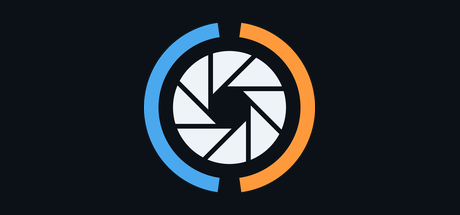
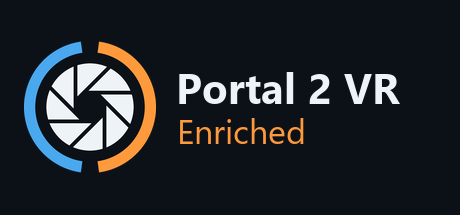
Name the project Portal 2 VR Enriched
A nod to the Aperture Science Enrichment Center. Rename everything a player
sees: launcher, error dialogs, SteamVR entries, documents and the release
package. Internal namespaces, log names and deployed file names stay, so
existing installations keep working.

Changed region(s): [[0.0304, 0.1116, 0.8826, 0.893]]

diff --git a/tools/launcher.py b/tools/launcher.py
@@ -1,4 +1,4 @@
-"""User-facing Portal2VR launcher; deployment uses the shared backup installer."""
+"""User-facing Portal 2 VR Enriched launcher; deployment uses the shared backup installer."""
 
 from pathlib import Path
 import os
@@ -307,7 +307,7 @@ class Launcher:
             "Save is local; Apply and Launch update the game with backups.")
         self.status_error = self._next_error = False
         self.dirty, self.invalid = False, False
-        self.root.title("Portal 2 VR Launcher")
+        self.root.title("Portal 2 VR Enriched Launcher")
         self.scale = max(1.0, root.winfo_fpixels("1i") / 96)
         # Fixed size: nothing here needs to grow, and small screens get a smaller
         # window whose pages scroll.
@@ -456,7 +456,7 @@ class Launcher:
         self.close_button.draw(width - self.close_button.width(), px(2))
         self.minimize_button.draw(width - 2 * self.close_button.width(), px(2))
         c.create_image(margin + px(22), px(64), image=self.logo, tags=drag)
-        c.create_text(margin + px(56), px(41), text="Portal 2 VR", anchor="nw", font=self.fonts["title"], fill=TEXT,
+        c.create_text(margin + px(56), px(41), text="Portal 2 VR Enriched", anchor="nw", font=self.fonts["title"], fill=TEXT,
                       tags=drag)
         self.subtitle = c.create_text(margin + px(56), px(68), anchor="nw", font=self.fonts["subtitle"], tags=drag)
         x = width - margin - self.launch_button.width() - px(8)
@@ -648,7 +648,7 @@ class Launcher:
         y = self._setup_card(c, y, width, "ok" if steam_found else "warn", "Steam",
                              str(Path(self.steam_var.get())) if steam_found else
                              "Choose steam.exe from your Steam folder.", self.steam_actions, path=steam_found)
-        y = self._setup_card(c, y, width, "ok" if self.installed else "idle", "Portal 2 VR mod",
+        y = self._setup_card(c, y, width, "ok" if self.installed else "idle", "Portal 2 VR Enriched mod",
                              "Your original files are backed up." if self.installed else
                              "Launch or Apply installs it and backs up your original files first.",
                              (self.restore_button,) if self.installed else (),
@@ -744,7 +744,7 @@ class Launcher:
     def _error(self, error):
         self._next_error = True
         self.status_var.set(str(error))
-        messagebox.showerror("Portal2VR", str(error), parent=self.root)
+        messagebox.showerror("Portal 2 VR Enriched", str(error), parent=self.root)
 
     def save(self):
         try:
@@ -797,7 +797,7 @@ class Launcher:
         core.recover_pending_transaction(self.install_state_path)
         state = core.load_state(self.install_state_path)
         if not state["managed_files"] and not messagebox.askyesno(
-                "Install Portal2VR", f"Install the mod in:\n{game}\n\n"
+                "Install Portal 2 VR Enriched", f"Install the mod in:\n{game}\n\n"
                 "Existing files will be backed up first. You can restore them from this launcher.", parent=self.root):
             return None
         return prefs
@@ -902,7 +902,7 @@ class Launcher:
         self._open(self.install_state_path.parent / ".launcher-backups")
 
     def about(self):
-        messagebox.showinfo("About Portal2VR", "Unofficial fan project, not affiliated with Valve.\n"
+        messagebox.showinfo("About Portal 2 VR Enriched", "Unofficial fan project, not affiliated with Valve.\n"
                             "Incremental modernization of Gistix/portal2vr, "
                             "built on mmadej20/portal2vr-ultimate.\n\n"
                             "Windows Portal 2, 32-bit runtime, SteamVR / OpenVR, modified DXVK.\n"
@@ -987,7 +987,7 @@ def main():
         Launcher(root)
         borderless_window(root)
     except (OSError, ValueError, RuntimeError) as error:
-        messagebox.showerror("Portal2VR startup", f"{error}\n\nNo game files were changed. "
+        messagebox.showerror("Portal 2 VR Enriched startup", f"{error}\n\nNo game files were changed. "
                              "Keep the state and backup files; do not delete them to repair an installation.", parent=root)
         root.destroy()
         return 1

diff --git a/L4D2VR/dllmain.cpp b/L4D2VR/dllmain.cpp
@@ -25,7 +25,7 @@ DWORD WINAPI InitL4D2VR(HMODULE hModule)
     int nArgs;
     szArglist = CommandLineToArgvW(GetCommandLineW(), &nArgs);
     if (!szArglist) {
-        Game::errorMsg("Unable to read Portal 2 launch options; Portal2VR initialization stopped.");
+        Game::errorMsg("Unable to read Portal 2 launch options; Portal 2 VR Enriched initialization stopped.");
         return 0;
     }
     bool insecureEnabled = false;
@@ -39,8 +39,8 @@ DWORD WINAPI InitL4D2VR(HMODULE hModule)
     if (!insecureEnabled) {
         Logger::Write("Missing -insecure launch option; VR hooks disabled for this launch.");
         MessageBoxA(nullptr,
-            "Portal2VR expects the -insecure launch option. VR initialization has been skipped; Portal 2 will continue without Portal2VR hooks.",
-            "Portal2VR launch option", MB_OK | MB_ICONWARNING);
+            "Portal 2 VR Enriched expects the -insecure launch option. VR initialization has been skipped; Portal 2 will continue without Portal 2 VR Enriched hooks.",
+            "Portal 2 VR Enriched launch option", MB_OK | MB_ICONWARNING);
         return 0;
     }
 
@@ -51,9 +51,9 @@ DWORD WINAPI InitL4D2VR(HMODULE hModule)
             Portal2VRRuntime::PublishInitialized(g_Game, candidate))
             return 0;
     } catch (const std::exception &error) {
-        Game::errorMsg((std::string("Portal2VR initialization failed: ") + error.what()).c_str());
+        Game::errorMsg((std::string("Portal 2 VR Enriched initialization failed: ") + error.what()).c_str());
     } catch (...) {
-        Game::errorMsg("Portal2VR initialization failed with an unexpected error.");
+        Game::errorMsg("Portal 2 VR Enriched initialization failed with an unexpected error.");
     }
     if (candidate && candidate->m_Hooks && candidate->m_Hooks->m_MinHookInitialized) {
         const bool disabled = candidate->m_Hooks->RollbackFailedInitialization();
@@ -65,7 +65,7 @@ DWORD WINAPI InitL4D2VR(HMODULE hModule)
         return 0;
     }
     delete candidate;
-    Logger::Write("Portal2VR initialization stopped; DXVK proxy remains loaded.");
+    Logger::Write("Portal 2 VR Enriched initialization stopped; DXVK proxy remains loaded.");
 
     return 0;
 }
@@ -83,7 +83,7 @@ BOOL APIENTRY DllMain( HMODULE hModule,
             if (HANDLE thread = CreateThread(NULL, 0, (LPTHREAD_START_ROUTINE)InitL4D2VR, hModule, 0, NULL))
                 CloseHandle(thread);
             else
-                OutputDebugStringA("Portal2VR: failed to start initialization thread\n");
+                OutputDebugStringA("Portal 2 VR Enriched: failed to start initialization thread\n");
             break;
     case DLL_THREAD_ATTACH:
     case DLL_THREAD_DETACH:

diff --git a/tests/test_release_package.py b/tests/test_release_package.py
@@ -17,7 +17,7 @@ from tools.build_release_package import assemble_release
 
 COMMIT = "a" * 40
 PACKAGE_FILES = {
-    "Portal2VR Launcher.exe",
+    "Portal 2 VR Enriched Launcher.exe",
     "Release/d3d9.dll",
     "thirdparty/openvr/bin/win32/openvr_api.dll",
     "L4D2VR/config.txt",
@@ -48,9 +48,9 @@ def pe(machine: int) -> bytes:
 
 def fixture(root: Path) -> tuple[Path, Path, Path]:
     repo = root / "repo"
-    exe = root / "compiled" / "Portal2VR Launcher.exe"
+    exe = root / "compiled" / "Portal 2 VR Enriched Launcher.exe"
     files = {name: b"fixture payload" for name in PACKAGE_FILES -
-             {"Portal2VR Launcher.exe", "README.txt", "manifest.json"}}
+             {"Portal 2 VR Enriched Launcher.exe", "README.txt", "manifest.json"}}
     files["Release/d3d9.dll"] = pe(0x14c)
     files["thirdparty/openvr/bin/win32/openvr_api.dll"] = pe(0x14c)
     files["L4D2VR/config.txt"] = TEMPLATE.encode("utf-8")
@@ -77,7 +77,7 @@ class ReleasePackageTests(unittest.TestCase):
             root = Path(temporary)
             repo, exe, output = fixture(root)
             archive = assemble_release(repo, exe, output, "v0.1.0", COMMIT)
-            self.assertEqual(archive.name, "Portal2VR-v0.1.0-win32.zip")
+            self.assertEqual(archive.name, "Portal2VR-Enriched-v0.1.0-win32.zip")
             with zipfile.ZipFile(archive) as package:
                 self.assertEqual(set(package.namelist()), PACKAGE_FILES)
                 manifest = json.loads(package.read("manifest.json"))
@@ -136,7 +136,7 @@ class ReleasePackageTests(unittest.TestCase):
             root = Path(temporary)
             repo, exe, output = fixture(root)
             output.mkdir()
-            archive = output / "Portal2VR-v0.1.0-win32.zip"
+            archive = output / "Portal2VR-Enriched-v0.1.0-win32.zip"
             archive.write_bytes(b"unrelated artifact")
             with self.assertRaises(FileExistsError):
                 assemble_release(repo, exe, output, "v0.1.0", COMMIT)
@@ -170,7 +170,7 @@ class ReleasePackageTests(unittest.TestCase):
                  "--version", "v0.1.0", "--commit", COMMIT],
                 cwd=Path(__file__).resolve().parents[1], capture_output=True,
                 text=True, check=True)
-            archive = output / "Portal2VR-v0.1.0-win32.zip"
+            archive = output / "Portal2VR-Enriched-v0.1.0-win32.zip"
             self.assertEqual(result.stdout.strip(), str(archive))
             self.assertTrue(archive.is_file())
 

diff --git a/tools/build_release_package.py b/tools/build_release_package.py
@@ -1,4 +1,4 @@
-"""Assemble the exact runnable Portal2VR release tree as a verified ZIP."""
+"""Assemble the exact runnable Portal 2 VR Enriched release tree as a verified ZIP."""
 
 import argparse
 import hashlib
@@ -13,7 +13,7 @@ import zipfile
 from .test_launcher_core import SOURCE_TO_TARGET
 
 
-LAUNCHER_NAME = "Portal2VR Launcher.exe"
+LAUNCHER_NAME = "Portal 2 VR Enriched Launcher.exe"
 LICENSES = (
     "THIRD_PARTY_SOURCES.txt",
     "dxvk/LICENSE",
@@ -21,15 +21,15 @@ LICENSES = (
     "thirdparty/minhook/LICENSE.txt",
     "L4D2VR/sdk/LICENSE.txt",
 )
-README = ("Portal2VR for Windows\n"
-          "=====================\n\n"
+README = ("Portal 2 VR Enriched for Windows\n"
+          "================================\n\n"
           "Requirements: 64-bit Windows, installed Portal 2, Steam and SteamVR,\n"
           "a Vulkan-capable graphics driver, and Microsoft Visual C++ v14\n"
           "Redistributable (x86), at least as recent as the MSVC build tools.\n"
           "Latest supported x86 runtime: https://aka.ms/vc14/vc_redist.x86.exe\n"
           "Python and build tools are not required.\n\n"
           "1. Extract this entire ZIP to a writable folder. Keep its folders together.\n"
-          "2. Close Portal 2, then double-click Portal2VR Launcher.exe.\n"
+          "2. Close Portal 2, then double-click Portal 2 VR Enriched Launcher.exe.\n"
           "3. Select your Portal 2 and Steam paths. Choose Apply or Launch.\n"
           "4. Use Restore original game files in the launcher when finished.\n\n"
           "Keep the launcher-created tools folder and .launcher-backups with this package\n"
@@ -105,10 +105,10 @@ def assemble_release(repo: Path, launcher_exe: Path, output: Path,
     if output.is_symlink():
         raise ValueError(f"Release output must not be a symlink: {output}")
     output.mkdir(parents=True, exist_ok=True)
-    destination = output / f"Portal2VR-{version}-win32.zip"
+    destination = output / f"Portal2VR-Enriched-{version}-win32.zip"
     if destination.exists() or destination.is_symlink():
         raise FileExistsError(f"Release archive already exists: {destination}")
-    with tempfile.NamedTemporaryFile(prefix="Portal2VR-", suffix=".zip.tmp",
+    with tempfile.NamedTemporaryFile(prefix="Portal2VR-Enriched-", suffix=".zip.tmp",
                                      dir=output, delete=False) as stream:
         temporary = Path(stream.name)
     try:

diff --git a/tools/publish_release.py b/tools/publish_release.py
@@ -67,12 +67,12 @@ class GhClient:
 
     def create_draft(self, repo, tag, commit):
         notes = (f"Windows x86 package for commit {commit}.\n\n"
-                 "Extract the ZIP and run Portal2VR Launcher.exe. "
+                 "Extract the ZIP and run Portal 2 VR Enriched Launcher.exe. "
                  "See README.txt inside the ZIP and RELEASES.md in the repository.")
         created = json.loads(self._run(
             "api", f"repos/{repo}/releases", "--method", "POST",
             "-f", f"tag_name={tag}", "-f", f"target_commitish={commit}",
-            "-F", "draft=true", "-f", f"name=Portal2VR {tag}", "-f", f"body={notes}"))
+            "-F", "draft=true", "-f", f"name=Portal 2 VR Enriched {tag}", "-f", f"body={notes}"))
         if (not isinstance(created, dict) or type(created.get("id")) is not int or
                 created["id"] <= 0 or created.get("tag_name") != tag or
                 created.get("target_commitish") != commit or created.get("draft") is not True or
@@ -103,7 +103,7 @@ def verify_snapshot(snapshot, checksum, commit, output):
     snapshot, checksum, output = Path(snapshot), Path(checksum), Path(output)
     if not re.fullmatch(r"[0-9a-f]{40}", commit):
         raise ValueError("Expected exact lowercase commit SHA")
-    if snapshot.name != "Portal2VR-v0.0.0-win32.zip" or checksum.name != "SHA256SUMS.txt":
+    if snapshot.name != "Portal2VR-Enriched-v0.0.0-win32.zip" or checksum.name != "SHA256SUMS.txt":
         raise ValueError("Unexpected CI snapshot asset names")
     for path in (snapshot, checksum):
         if path.is_symlink() or not path.is_file():
@@ -173,7 +173,7 @@ def _check_local(tag, commit, archive, checksum):
         raise ValueError("Expected a stable vMAJOR.MINOR.PATCH tag")
     if not re.fullmatch(r"[0-9a-f]{40}", commit):
         raise ValueError("Expected exact lowercase commit SHA")
-    if archive.name != f"Portal2VR-{tag}-win32.zip" or checksum.name != "SHA256SUMS.txt":
+    if archive.name != f"Portal2VR-Enriched-{tag}-win32.zip" or checksum.name != "SHA256SUMS.txt":
         raise ValueError("Release asset names differ from the version")
     for path in (archive, checksum):
         if path.is_symlink() or not path.is_file():

diff --git a/tools/launcher_art.py b/tools/launcher_art.py
@@ -13,7 +13,7 @@ ASSETS = Path(getattr(sys, "_MEIPASS", Path(__file__).resolve().parent.parent)) 
 ICON = ASSETS / "launcher.ico"
 LOGO_SIZES = (44, 55, 66, 88)
 ICON_SIZES = (16, 20, 24, 32, 40, 48, 64, 96, 128, 256)
-APP_ID = "Portal2VR.Launcher"
+APP_ID = "Portal2VR.Enriched.Launcher"
 PORTAL_BLUE, PORTAL_ORANGE = (74, 168, 238), (255, 154, 60)
 SAMPLES = tuple((i + .5) / 4 for i in range(4))
 
@@ -124,13 +124,18 @@ def write_assets(folder=ASSETS):
 
 def write_capsule(path=ASSETS.parent.parent / "L4D2VR/portal2vr_capsule_main.png"):
     """Regenerate the SteamVR library tile from the launcher mark."""
-    from PIL import Image
+    from PIL import Image, ImageDraw, ImageFont
 
     width, height = 460, 215
     image = Image.new("RGBA", (width, height), (12, 17, 24, 255))
-    size = 171
-    mark = _mark(size)
-    image.alpha_composite(mark, ((width - size) // 2, (height - size) // 2))
+    size = 132
+    image.alpha_composite(_mark(size), (24, (height - size) // 2))
+    draw = ImageDraw.Draw(image)
+    fonts = "C:/Windows/Fonts/"
+    draw.text((176, 104), "Portal 2 VR", font=ImageFont.truetype(fonts + "segoeuib.ttf", 42),
+              fill=(238, 243, 248, 255), anchor="ls")
+    draw.text((177, 144), "Enriched", font=ImageFont.truetype(fonts + "segoeui.ttf", 34),
+              fill=PORTAL_ORANGE + (255,), anchor="ls")
     image.convert("RGB").save(path, optimize=True)
 
 

diff --git a/tests/test_publish_release.py b/tests/test_publish_release.py
@@ -16,7 +16,7 @@ from tools.publish_release import GhClient, publish_release, verify_snapshot
 COMMIT = "a" * 40
 OTHER = "b" * 40
 TAG = "v0.1.0"
-ZIP_NAME = "Portal2VR-v0.1.0-win32.zip"
+ZIP_NAME = "Portal2VR-Enriched-v0.1.0-win32.zip"
 
 
 class FakeGitHub:
@@ -168,11 +168,11 @@ class PublishReleaseTests(unittest.TestCase):
                                   f"  {snapshot.name}\n").encode("ascii"))
             extracted = root / "extracted"
             verify_snapshot(snapshot, checksum, COMMIT, extracted)
-            self.assertEqual((extracted / "Portal2VR Launcher.exe").read_bytes(),
+            self.assertEqual((extracted / "Portal 2 VR Enriched Launcher.exe").read_bytes(),
                              exe.read_bytes())
             self.assertEqual((extracted / "Release/d3d9.dll").read_bytes(),
                              (repo / "Release/d3d9.dll").read_bytes())
-            stable = assemble_release(extracted, extracted / "Portal2VR Launcher.exe",
+            stable = assemble_release(extracted, extracted / "Portal 2 VR Enriched Launcher.exe",
                                       root / "release", TAG, COMMIT)
             with zipfile.ZipFile(snapshot) as source, zipfile.ZipFile(stable) as repackaged:
                 self.assertEqual(json.loads(repackaged.read("manifest.json"))["version"], TAG)

diff --git a/tools/launcher_shortcut.py b/tools/launcher_shortcut.py
@@ -18,7 +18,7 @@ else:
     from . import launcher_art as art
     from .launcher_paths import application_root
 
-SHORTCUT_NAME = "Portal2VR Launcher.lnk"
+SHORTCUT_NAME = "Portal 2 VR Enriched Launcher.lnk"
 
 
 class GUID(Structure):
@@ -65,7 +65,7 @@ def create_shortcut(path: Path, target: Path, script: Path, icon: Path) -> None:
     _call(link, 11, (c_wchar_p,), f'"{script}"')
     _call(link, 9, (c_wchar_p,), str(script.parent))
     _call(link, 17, (c_wchar_p, c_ulong), str(icon), 0)
-    _call(link, 7, (c_wchar_p,), "Portal 2 VR Launcher")
+    _call(link, 7, (c_wchar_p,), "Portal 2 VR Enriched Launcher")
     store = _query(link, IID_PROPERTY_STORE)
     key = PROPERTYKEY(GUID(PKEY_APP_USER_MODEL_ID[0]), PKEY_APP_USER_MODEL_ID[1])
     value = PROPVARIANT(vt=VT_LPWSTR, value=art.APP_ID)
@@ -86,7 +86,7 @@ def main() -> int:
     root = application_root()
     pythonw = Path(sys.executable).with_name("pythonw.exe")
     for folder in (root, desktop_folder()):
-        create_shortcut(folder / SHORTCUT_NAME, pythonw, root / "Portal2VR Launcher.pyw", art.ICON)
+        create_shortcut(folder / SHORTCUT_NAME, pythonw, root / "Portal 2 VR Enriched Launcher.pyw", art.ICON)
         print(folder / SHORTCUT_NAME)
     return 0
 

diff --git a/L4D2VR/logger.h b/L4D2VR/logger.h
@@ -18,7 +18,7 @@ public:
             if (slash != std::string::npos)
                 Path() = path.substr(0, slash + 1) + "portal2vr.log";
         }
-        Write("Portal2VR M1 build " __DATE__ " " __TIME__ "; process architecture: x86");
+        Write("Portal 2 VR Enriched build " __DATE__ " " __TIME__ "; process architecture: x86");
     }
 
     static void Write(const std::string &message)
@@ -30,7 +30,7 @@ public:
         std::ofstream stream(Path(), std::ios::app);
         if (stream)
             stream << std::put_time(&local, "%Y-%m-%d %H:%M:%S") << " " << message << '\n';
-        OutputDebugStringA(("Portal2VR: " + message + "\n").c_str());
+        OutputDebugStringA(("Portal 2 VR Enriched: " + message + "\n").c_str());
     }
 
     // A file next to portal2vr.log (the d3d9.dll directory).

diff --git a/tests/test_launcher_paths.py b/tests/test_launcher_paths.py
@@ -34,7 +34,7 @@ assert buffer.value == ''
 
     def test_frozen_uses_executable_directory_not_temporary_bundle(self):
         with patch.object(launcher_paths.sys, "frozen", True, create=True), \
-             patch.object(launcher_paths.sys, "executable", str(Path("package") / "Portal2VR Launcher.exe")), \
+             patch.object(launcher_paths.sys, "executable", str(Path("package") / "Portal 2 VR Enriched Launcher.exe")), \
              patch.object(launcher_paths.sys, "_MEIPASS", str(Path("temporary-bundle")), create=True):
             root = launcher_paths.application_root()
             self.assertEqual(root, Path("package").resolve())

diff --git a/L4D2VR/game.cpp b/L4D2VR/game.cpp
@@ -110,7 +110,7 @@ bool Game::Initialize()
     }
 
     m_Initialized = true;
-    Logger::Write("Portal2VR initialization complete.");
+    Logger::Write("Portal 2 VR Enriched initialization complete.");
     return true;
 }
 
@@ -133,7 +133,7 @@ void *Game::GetInterface(const char *dllname, const char *interfacename)
 void Game::errorMsg(const char *msg)
 {
     Logger::Write(std::string("Initialization error: ") + msg);
-    MessageBox(0, msg, "Portal2VR", MB_ICONERROR | MB_OK);
+    MessageBox(0, msg, "Portal 2 VR Enriched", MB_ICONERROR | MB_OK);
 }
 
 CBaseEntity *Game::GetClientEntity(int entityIndex)

diff --git a/L4D2VR/vr_settings.h b/L4D2VR/vr_settings.h
@@ -327,7 +327,7 @@ inline std::string OverrideLines(const Overrides &overrides)
 
 inline std::string SerializeOverrides(const Overrides &overrides)
 {
-    return "# Written by the Portal2VR in-game VR options (Options > VR).\n"
+    return "# Written by the Portal 2 VR Enriched in-game VR options (Options > VR).\n"
            "# These values override VR\\config.txt; delete this file or use\n"
            "# \"Use Defaults\" in the game to return to config.txt.\n" + OverrideLines(overrides);
 }
